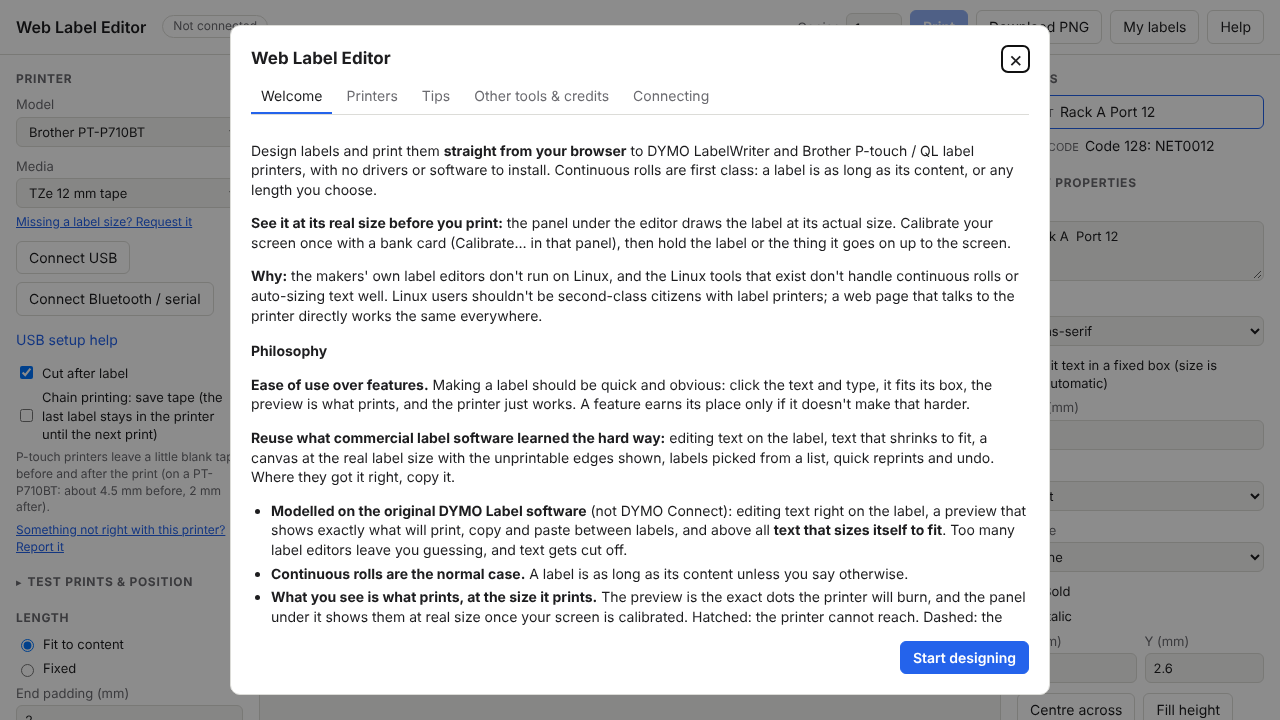
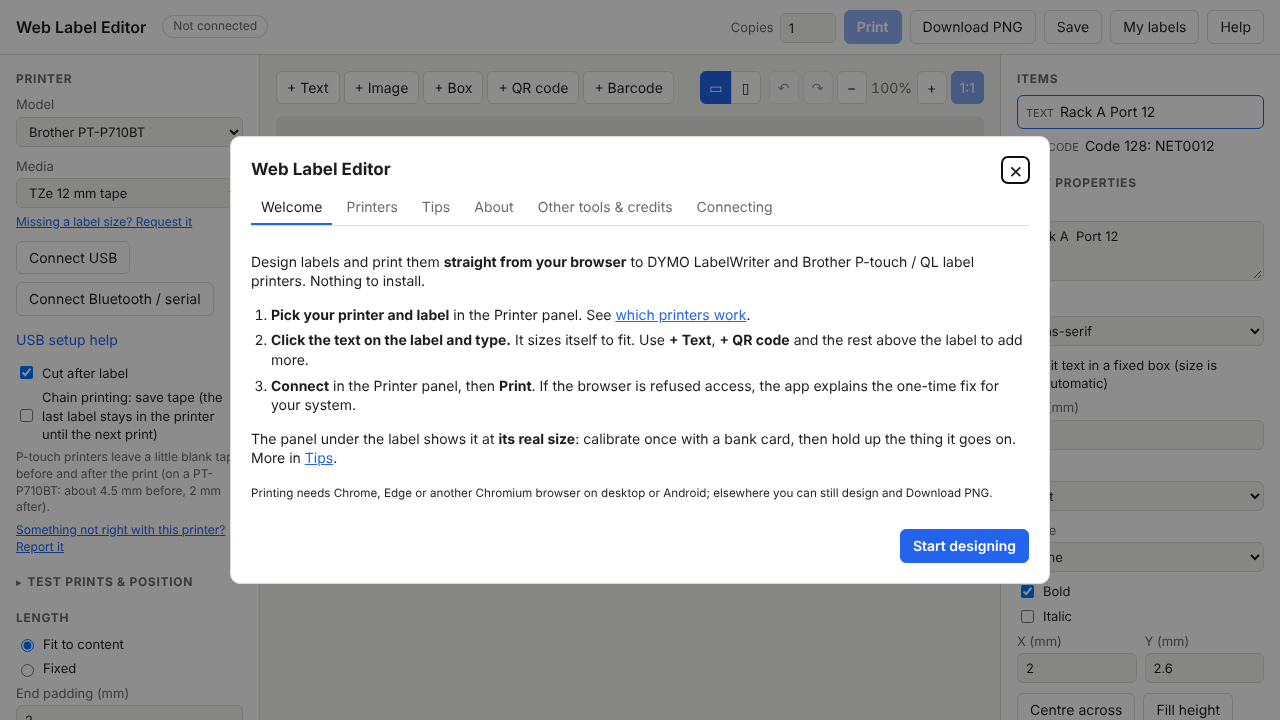
UX: three-step welcome, fit the label to narrow screens, Save in the header
The rest of the learnability pass:
- Welcome is now three steps (printer, click and type, connect and print);
  Why and Philosophy move to a new About tab.
- Until − / + is used, the editor zooms out so the whole label fits the
  width (phones, long tapes), never above 100%.
- The shortcut list under the editor is one line with a link to Tips,
  where Keyboard now comes first.
- Orientation is set only by the toolbar's ▭ ▯ (the panel dropdown went).
- Save (and Ctrl+S, also while typing on the label) in the header.
- Forward / Back are now Bring forward / Send back.

Claude-Session: https://claude.ai/code/session_01YQFkThD3TEfZZoGyfdA6sY

Changed region(s): [[0.1562, 0.0, 0.8438, 0.9778]]

diff --git a/src/about.js b/src/about.js
@@ -20,18 +20,35 @@ const b = (text) => el('strong', { textContent: text });
 const li = (...c) => el('li', {}, ...c);
 const link = (href, text) => el('a', { href, textContent: text, target: '_blank', rel: 'noopener' });
 
+// The first thing a new user sees: three steps, and nothing else they must
+// read. Why and how it is built are on the About tab.
 function welcome(go) {
-  const start = el('button', { type: 'button', className: 'linklike', textContent: 'Printers' });
-  start.onclick = () => go('printers');
+  const linkTo = (tab, text) => {
+    const a = el('button', { type: 'button', className: 'linklike', textContent: text });
+    a.onclick = () => go(tab);
+    return a;
+  };
+  return [
+    p('Design labels and print them ', b('straight from your browser'), ' to DYMO LabelWriter and Brother P-touch / QL '
+      + 'label printers. Nothing to install.'),
+    el('ol', { className: 'start' },
+      li(b('Pick your printer and label'), ' in the Printer panel. See ', linkTo('printers', 'which printers work'), '.'),
+      li(b('Click the text on the label and type.'), ' It sizes itself to fit. Use ', b('+ Text'), ', ', b('+ QR code'),
+        ' and the rest above the label to add more.'),
+      li(b('Connect'), ' in the Printer panel, then ', b('Print'), '. If the browser is refused access, the app explains the '
+        + 'one-time fix for your system.')),
+    p('The panel under the label shows it at ', b('its real size'), ': calibrate once with a bank card, then hold up '
+      + 'the thing it goes on. More in ', linkTo('tips', 'Tips'), '.'),
+    p(el('small', {}, 'Printing needs Chrome, Edge or another Chromium browser on desktop or Android; elsewhere you can '
+      + 'still design and Download PNG.')),
+  ];
+}
+
+// Why this exists and what it holds to.
+function about(go) {
   const othersLink = el('button', { type: 'button', className: 'linklike', textContent: 'Other tools' });
   othersLink.onclick = () => go('others');
   return [
-    p('Design labels and print them ', b('straight from your browser'), ' to DYMO LabelWriter and Brother P-touch / QL '
-      + 'label printers, with no drivers or software to install. Continuous rolls are first class: a label is as long as '
-      + 'its content, or any length you choose.'),
-    p(b('See it at its real size before you print:'), ' the panel under the editor draws the label at its actual size. '
-      + 'Calibrate your screen once with a bank card (Calibrate… in that panel), then hold the label or the thing it goes '
-      + 'on up to the screen.'),
     p(b('Why:'), ' the makers\' own label editors don\'t run on Linux, and the Linux tools that exist don\'t handle '
       + 'continuous rolls or auto-sizing text well. Linux users shouldn\'t be second-class citizens with label printers; a '
       + 'web page that talks to the printer directly works the same everywhere.'),
@@ -59,16 +76,6 @@ function welcome(go) {
       li(b('Nothing leaves your computer.'), ' It is a static page: designs stay in your browser unless you save them '
         + 'to a file.'),
       li(b('Say when another tool fits better.'), ' See ', othersLink, '.')),
-    el('h3', { textContent: 'Getting started' }),
-    el('ol', {},
-      li('Pick your printer and label in the ', b('Printer'), ' panel. See ', start, ' for what is supported.'),
-      li('Add text, QR codes, barcodes, images or boxes. Drag to move; click text again to edit it on the label. Tick ',
-        b('Fit text in a fixed box'), ' to let the size follow the box.'),
-      li('Click ', b('Connect USB'), ' (or Bluetooth), then ', b('Print'), '. If the browser is refused access, the app '
-        + 'explains the one-time fix for your system.'),
-      li('If prints land off position, open ', b('Test prints & position'), ' in the Printer panel and calibrate.')),
-    p('Printing needs Chrome, Edge or another Chromium browser on desktop. In other browsers you can still design and ',
-      b('Download PNG'), '.'),
   ];
 }
 
@@ -95,6 +102,14 @@ function printers(models) {
 
 function tips() {
   return [
+    el('h3', { textContent: 'Keyboard' }),
+    el('ul', {},
+      li(b('Ctrl+C / Ctrl+X / Ctrl+V'), ': copy, cut, paste items. Paste text or images from other apps too.'),
+      li(b('Ctrl+D'), ': duplicate. ', b('Delete'), ': remove. ', b('Arrows'), ': nudge 0.1 mm (Shift: 1 mm).'),
+      li(b('Ctrl+S'), ': save to My labels.'),
+      li(b('Ctrl+Z'), ': undo. ', b('Ctrl+Shift+Z'), ' or ', b('Ctrl+Y'), ': redo (also the ↶ ↷ buttons).'),
+      li(b('Click'), ' selected text, double-click it, or press ', b('Enter'), ' / ', b('F2'), ' to edit it on the label; '
+        + 'double-click empty space to add text.')),
     el('h3', { textContent: 'Layout' }),
     el('ul', {},
       li(b('Hatched border'), ': where the printer cannot put ink at all. Anything there is cut off and flagged.'),
@@ -134,13 +149,6 @@ function tips() {
         + 'n + d mm, set ', b('Feed X'), ' to −d; a Y line gives ', b('Across Y'), ' the same way.'),
       li(b('Save as roll…'), ' stores a calibration for one roll (handy for third-party labels) with a short ID to write '
         + 'on it. Its calibration code sets the roll up on another computer.')),
-    el('h3', { textContent: 'Keyboard' }),
-    el('ul', {},
-      li(b('Ctrl+C / Ctrl+X / Ctrl+V'), ': copy, cut, paste items. Paste text or images from other apps too.'),
-      li(b('Ctrl+D'), ': duplicate. ', b('Delete'), ': remove. ', b('Arrows'), ': nudge 0.1 mm (Shift: 1 mm).'),
-      li(b('Ctrl+Z'), ': undo. ', b('Ctrl+Shift+Z'), ' or ', b('Ctrl+Y'), ': redo (also the ↶ ↷ buttons).'),
-      li(b('Click'), ' selected text, double-click it, or press ', b('Enter'), ' / ', b('F2'), ' to edit it on the label; '
-        + 'double-click empty space to add text.')),
     el('h3', { textContent: 'Your designs' }),
     p('The ', b('My labels'), ' button keeps your saved labels (open one, or use it as a template for a new label) and the '
       + 'history of what you printed, so you can reprint it. They and the current design are kept in this browser; use ',
@@ -177,7 +185,7 @@ function others() {
   ];
 }
 
-const TABS = [['welcome', 'Welcome'], ['printers', 'Printers'], ['tips', 'Tips'], ['others', 'Other tools & credits'], ['connect', 'Connecting']];
+const TABS = [['welcome', 'Welcome'], ['printers', 'Printers'], ['tips', 'Tips'], ['about', 'About'], ['others', 'Other tools & credits'], ['connect', 'Connecting']];
 
 // ctx: { models, tab, onConnectHelp }
 export function openAbout(dialog, ctx) {
@@ -203,7 +211,7 @@ export function openAbout(dialog, ctx) {
     close.onclick = () => dialog.close();
     const done = el('button', { type: 'button', className: 'primary', textContent: tab === 'welcome' ? 'Start designing' : 'Close' });
     done.onclick = () => dialog.close();
-    const body = { welcome: () => welcome(go), printers: () => printers(ctx.models), tips, others }[tab]();
+    const body = { welcome: () => welcome(go), printers: () => printers(ctx.models), tips, about: () => about(go), others }[tab]();
     dialog.replaceChildren(
       el('header', {}, el('h2', { textContent: 'Web Label Editor' }), close),
       tabs,

diff --git a/src/app.js b/src/app.js
@@ -95,6 +95,16 @@ const undo = new UndoHistory(JSON.stringify(design));
 let selectedId = design.items[0]?.id ?? null;
 let zoom = 6; // screen px per mm of the editing view
 let editZoom = 6; // the zoom chosen with − / +
+// Until − / + is used, the zoom follows the space: 100% (6 px per mm), or
+// less so the whole label fits the width (a phone, a long tape).
+let zoomFit = true;
+function fitZoom(display, dpmm, upright) {
+  const room = $('canvas-wrap').clientWidth - 72; // padding and ruler
+  const mm = display.width / dpmm;
+  // The roll stub past the end takes up to 15 mm more, at least 28 px.
+  const z = upright ? room / mm : Math.min(room / (mm + Math.min(mm / 4, 15)), (room - 28) / mm);
+  return Math.max(2, Math.min(6, z));
+}
 // Showing the label at its real size (the screen calibration): in a panel
 // under the editor when it fits across the window, otherwise the editor
 // itself switches to real size.
@@ -413,6 +423,7 @@ function draw() {
   last = renderView(design, m, med, { adj: adjust(), onAssetLoad: () => refresh() });
   const { display, dpmm, geo, slots, toDisplay } = last;
 
+  if (zoomFit && !editing && !drag) editZoom = fitZoom(display, dpmm, last.portrait);
   const canvas = $('canvas');
   const real = actualSize ? (actualPxPerMm() ?? ESTIMATED_PX_PER_MM) : null;
   actualPanel = !!real && (display.width / dpmm) * real <= $('canvas-wrap').clientWidth - 64;
@@ -1012,8 +1023,8 @@ function buildSetup() {
       each: `${n} labels per row: Copies counts labels, filling each row from the top.`,
     }[mode()];
   }
-  $('orientation').value = portrait() ? 'portrait' : 'landscape';
-  for (const b of document.querySelectorAll('[data-orient]')) b.setAttribute('aria-pressed', String(b.dataset.orient === $('orientation').value));
+  const orient = portrait() ? 'portrait' : 'landscape';
+  for (const b of document.querySelectorAll('[data-orient]')) b.setAttribute('aria-pressed', String(b.dataset.orient === orient));
   const overprintable = canOverprint(m, medium());
   $('bleed-box').hidden = !overprintable;
   if (overprintable) $('bleed').value = String(design.bleedMm ?? 0);
@@ -1023,6 +1034,7 @@ function buildSetup() {
   $('lib-current').hidden = !linked;
   $('lib-current').textContent = linked ? `Editing "${linked.name}" from My labels.` : '';
   $('btn-lib-save').textContent = linked ? 'Save' : 'Save to My labels';
+  $('btn-save').title = linked ? `Save "${linked.name}" in My labels (Ctrl+S)` : 'Save this label to My labels (Ctrl+S)';
   buildAdjust();
 
   const btns = $('connect-buttons');
@@ -1037,7 +1049,7 @@ function buildSetup() {
   }).slice(0, transport ? 1 : undefined));
   $('btn-detect').hidden = !(m.queryStatus && transport);
   $('btn-print').disabled = !transport;
-  $('btn-print').title = transport ? '' : 'Connect the printer first (Connect on the left)';
+  $('btn-print').title = transport ? '' : 'Connect the printer first (in the Printer panel)';
 }
 
 function buildAdjust() {
@@ -1772,8 +1784,8 @@ function buildProps() {
   }
   row.append(
     btn('Duplicate', duplicateSelected),
-    btn('Forward', () => moveItem(item, 1)),
-    btn('Back', () => moveItem(item, -1)),
+    btn('Bring forward', () => moveItem(item, 1)),
+    btn('Send back', () => moveItem(item, -1)),
     btn('Delete', () => deleteItem(item)),
   );
   panel.append(row);
@@ -2276,6 +2288,13 @@ const doRedo = () => applyUndo(undo.redo());
 // Ctrl+Z / Ctrl+Shift+Z / Ctrl+Y anywhere but in a text field, where the
 // browser's own undo applies.
 function onUndoKey(e) {
+  // Ctrl+S saves to My labels, even while typing, instead of saving the page.
+  if ((e.ctrlKey || e.metaKey) && !e.altKey && !e.shiftKey && e.key.toLowerCase() === 's' && !dialogOpen()) {
+    e.preventDefault();
+    stopEdit();
+    saveToLibrary(false);
+    return;
+  }
   if (!(e.ctrlKey || e.metaKey) || e.altKey || typingInField() || editing || dialogOpen()) return;
   const key = e.key.toLowerCase();
   if (key === 'z') {
@@ -2335,6 +2354,7 @@ function wire() {
   $('btn-detect').onclick = detect;
   $('btn-usb-help').onclick = () => showUsbHelp();
   $('btn-help').onclick = () => showAbout();
+  $('btn-shortcuts').onclick = () => showAbout('tips');
   $('btn-print').onclick = print;
   $('btn-png').onclick = downloadPng;
 
@@ -2352,6 +2372,7 @@ function wire() {
   const zoomBy = (f) => {
     stopEdit();
     if (actualSize && !actualPanel && actualChosen) setActualSize(false);
+    zoomFit = false;
     editZoom = Math.min(30, Math.max(1, editZoom * f));
     refresh();
   };
@@ -2367,7 +2388,7 @@ function wire() {
   $('btn-recalibrate').onclick = calibrate;
   $('btn-hide-actual').onclick = () => { setActualSize(false); refresh(); };
   // Browser zoom or a move to another screen changes devicePixelRatio.
-  window.addEventListener('resize', () => { if (actualSize) refresh(); });
+  window.addEventListener('resize', () => { if (actualSize || zoomFit) refresh(); });
 
   $('btn-export').onclick = () => {
     const { labelId, ...plain } = design;
@@ -2378,11 +2399,11 @@ function wire() {
     if (e.target.value === 'separate') unlinkLanes();
     else setRowMode(e.target.value);
   };
-  $('orientation').onchange = (e) => setOrientation(e.target.value);
   for (const b of document.querySelectorAll('[data-orient]')) b.onclick = () => setOrientation(b.dataset.orient);
   $('bleed').onchange = (e) => { design.bleedMm = Number(e.target.value) || 0; refresh({ setup: true }); };
   $('btn-lib-open').onclick = () => showLibrary();
   $('btn-lib-save').onclick = () => saveToLibrary(false);
+  $('btn-save').onclick = () => saveToLibrary(false);
   $('btn-lib-saveas').onclick = () => saveToLibrary(true);
   $('btn-import').onclick = () => $('import-file').click();
   $('import-file').onchange = async (e) => {
@@ -2412,7 +2433,7 @@ function wire() {
   canvas.addEventListener('pointerup', onPointerUp);
   canvas.addEventListener('pointercancel', onPointerUp);
   canvas.addEventListener('keydown', onKey);
-  document.addEventListener('keydown', onUndoKey);
+  document.addEventListener('keydown', onUndoKey, true); // capture: Ctrl+S works in the text editor too
   // Clicks and menu/checkbox changes are separate actions: each starts its
   // own undo step, while typing, nudging and dragging merge.
   document.addEventListener('click', () => undo.checkpoint(), true);

diff --git a/index.html b/index.html
@@ -17,6 +17,7 @@
       <label class="copies">Copies <input id="copies" type="number" min="1" max="99" value="1"></label>
       <button id="btn-print" class="primary" disabled>Print</button>
       <button id="btn-png">Download PNG</button>
+      <button id="btn-save">Save</button>
       <button id="btn-labels">My labels</button>
       <button id="btn-help">Help</button>
     </div>
@@ -60,12 +61,6 @@
       <p id="length-fixed-note" class="note" hidden>Die-cut labels have a fixed length.</p>
 
       <h2>Label</h2>
-      <label id="orientation-box">Orientation
-        <select id="orientation">
-          <option value="landscape">Landscape</option>
-          <option value="portrait">Portrait (upright)</option>
-        </select>
-      </label>
       <label class="inline"><input id="border" type="checkbox"> Border</label>
       <label class="inline"><input id="invert" type="checkbox"> Invert (white on black)</label>
       <label id="bleed-box" hidden>Overprint past the label edge
@@ -131,7 +126,8 @@
         <canvas id="actual-canvas" aria-label="The label at its real size"></canvas>
       </figure>
       <p id="dims" class="dims"></p>
-      <p class="hint">Drag items to move them. Click selected text (or double-click it, or press Enter) to edit it on the label; double-click empty space to add text. Ctrl+C / Ctrl+V copy and paste items, or paste text and images from other apps; Ctrl+D duplicates; Ctrl+Z undoes. Arrow keys nudge (Shift for 1 mm). Delete removes. The preview shows the exact dots that will print.</p>
+      <p class="hint">Click text to edit it · drag to move · double-click empty space to add text ·
+        <button id="btn-shortcuts" type="button" class="linklike">Shortcuts and tips</button></p>
     </section>
 
     <aside class="panel" id="props">

diff --git a/style.css b/style.css
@@ -310,6 +310,7 @@ dialog.about { width: min(820px, calc(100vw - 32px)); }
 dialog.about .about-body { max-height: calc(100vh - 220px); overflow-y: auto; margin-bottom: 14px; }
 dialog.about h3 { font-size: 14px; margin: 16px 0 6px; }
 dialog.about ul, dialog.about ol { margin: 6px 0; padding-left: 20px; }
+dialog.about ol.start li { margin-bottom: 6px; }
 dialog.about li { margin-bottom: 4px; }
 dialog.about a, button.linklike { color: var(--accent); }
 button.linklike { border: none; background: none; padding: 0; font: inherit; cursor: pointer; text-decoration: underline; }

diff --git a/README.md b/README.md
@@ -170,9 +170,9 @@ described [below](#adding-a-printer).
 
 1. Open the [site](https://mofosyne.github.io/web-label-editor/), pick your
    printer and label in the **Printer** panel.
-2. Add text, QR codes, barcodes, images or boxes. Drag to move; click text
-   again (or double-click it) to edit it on the label. Tick **Fit text in a fixed box** and the text
-   size follows the box.
+2. Click the text on the label and type; it sizes itself to fit. Add more
+   text, QR codes, barcodes, images or boxes from the toolbar, and drag to
+   move them.
 3. **Connect USB** (or Bluetooth), then **Print**. If your OS refuses the
    browser access, the app shows the one-time fix (see
    [per-OS setup](#connecting-per-os-setup)). On Linux with a snap or
@@ -197,9 +197,11 @@ The app has its own welcome page and **Help** with the same information.
   text; Ctrl+C / Ctrl+X / Ctrl+V for items (and pasting text or images
   from other apps); Ctrl+D duplicates; arrow keys nudge; Ctrl+Z / Ctrl+Shift+Z
   (or Ctrl+Y) undo and redo, with a drag or a burst of typing as one step.
+- **Changing the label keeps the design on it:** if it no longer fits the
+  new label or tape, it is shrunk evenly to fit (undo brings it back).
 - **Continuous rolls:** *Fit to content* makes the label as long as what is on
   it; *Fixed* sets a length. Die-cut labels use their own size.
-- **Portrait** (▭ ▯ in the toolbar, or *Orientation* in the *Label* panel):
+- **Portrait** (▭ ▯ in the toolbar):
   design the label standing upright, as in DYMO Label; it is turned for
   printing. On tape and continuous rolls the label grows downwards with the
   content; on a 2-up row the labels stand side by side, label 1 on the
@@ -209,8 +211,8 @@ The app has its own welcome page and **Help** with the same information.
 - **Tape detection** (P-touch, QL): the printer reports the loaded tape; the
   app switches to it, previews in the tape's colours (P-touch), and stops a
   print if the tape changed or the printer reports a problem.
-- **My labels and history** (*Labels* button): save designs under a name
-  with a thumbnail, reopen them, or use one as a template for a new label.
+- **My labels and history** (*My labels* button; *Save* or Ctrl+S saves):
+  save designs under a name with a thumbnail, reopen them, or use one as a template for a new label.
   Every print is recorded in a history (the last 50), so you can reprint or
   adjust past labels. Both are kept in the browser.
 - **Files:** *Save file* / *Open file* for designs as JSON, to back up or
